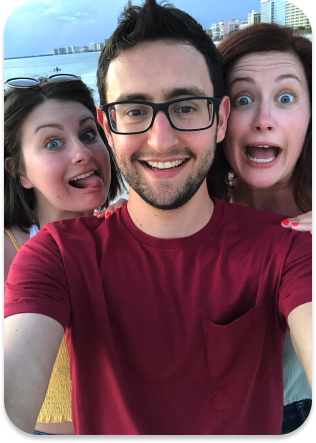
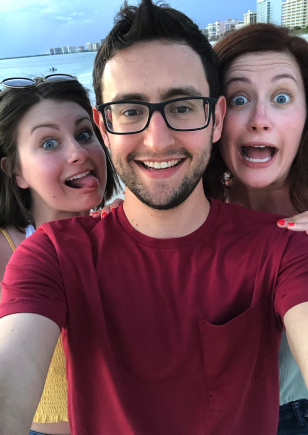
Continued development!

diff --git a/pages/index.vue b/pages/index.vue
@@ -1,38 +1,46 @@
 <template>
-  <div class="flex flex-wrap-reverse items-center max-w-1080 mx-auto 768:py-64 px-16">
-    <div class="w-100% 768:w-66% 768:pr-24">
-      <h1 class="text-36 768:text-48 leading-none pb-8 pt-24 768:pt-0">
-        I'm a <b>pragmatic web developer</b> that wears many hats.
-      </h1>
-      <p class="pb-32">
-        ...metaphorically. I look <span class="uppercase font-700 italic">really</span> bad in hats.
-      </p>
-      <a
-        class="inline-block bg-blue-700 uppercase font-700 text-white py-16 px-32 rounded"
-        href="">Contact Me</a>
-      <a
-        target="_blank"
-        class="ml-12 inline-block bg-gray-200 uppercase font-700 py-16 px-32 rounded"
-        href="/MattWaler.pdf">View my Resume</a>
-      <div class="flex items-center pt-64">
-        <Checked class="w-32 text-green-400 fill-current" />
-        <p class="uppercase text-20 text-gray-600 tracking-wide pl-12">
-          Currently available for freelance & consulting
+  <main>
+    <div class="flex flex-wrap-reverse items-center max-w-1080 mx-auto py-48 768:py-96 px-24">
+      <div class="w-100% 768:w-66% 768:pr-24">
+        <h1 class="text-36 768:text-48 leading-none pb-8 pt-24 768:pt-0">
+          I'm a <b>pragmatic web developer</b> that wears many hats.
+        </h1>
+        <p class="pb-32">
+          ...metaphorically. I look <span class="uppercase font-700 italic">really</span> bad in hats.
         </p>
+        <TheButton
+          link="/contact"
+          text="Contact Me" />
+        <TheButton
+          secondary
+          newtab
+          link="/MattWaler.pdf"
+          classes="ml-24"
+          text="View my Resume" />
+        <div class="flex items-center pt-64">
+          <Checked class="w-32 text-green-400 fill-current" />
+          <p class="uppercase text-20 text-gray-600 tracking-wide pl-12">
+            Currently available for freelance & consulting
+          </p>
+        </div>
+      </div>
+      <div class="w-100% 768:w-33% pl-24">
+        <img
+          class="w-50% mx-auto 768:w-100% rounded-lg shadow-lg"
+          src="~/assets/HannahAndEmily.jpg"
+          alt="My sisters, Hannah and Emily.">
       </div>
     </div>
-    <div class="w-100% 768:w-33% pl-24">
-      <img
-        class="w-50% mx-auto 768:w-100%"
-        src="~/assets/HannahAndEmily.jpg"
-        alt="My sisters, Hannah and Emily.">
-    </div>
-  </div>
+    <Waves class="w-100%" />
+  </main>
 </template>
 
 <script>
+  import TheButton from '~/components/TheButton.vue'
+
   export default {
     name: 'Index',
+    components: { TheButton },
     asyncData: async () => {
       console.log(process.client)
     },

diff --git a/components/TheHeader.vue b/components/TheHeader.vue
@@ -3,7 +3,7 @@
     <div
       role="presentation"
       class="w-100% h-16 bg-blue-700" />
-    <header class="flex justify-between items-center max-w-1080 mx-auto py-48 px-16">
+    <header class="flex justify-between items-center max-w-1080 mx-auto pt-48 px-24">
       <!-- Logo -->
       <a
         href="/"
@@ -17,17 +17,11 @@
       <!-- Nav Items -->
       <nav class="text-20 text-gray-600">
         <a
-          class="px-12"
+          v-for="item in links"
+          :key="item.text"
+          class="ml-48 hover:text-black"
           target="_blank"
-          href="https://github.com/mattwaler">github</a>
-        <a
-          class="px-12"
-          target="_blank"
-          href="https://www.linkedin.com/in/matthewwaler/">linkedin</a>
-        <a
-          class="px-12"
-          target="_blank"
-          href="/MattWaler.pdf">resume</a>
+          :href="item.link">{{ item.text }}</a>
       </nav>
     </header>
   </div>
@@ -36,5 +30,14 @@
 <script>
   export default {
     name: 'Header',
+    data() {
+      return {
+        links: [
+          { text: 'Github', link: 'https://github.com/mattwaler' },
+          { text: 'LinkedIn', link: 'https://www.linkedin.com/in/matthewwaler/' },
+          { text: 'Resume', link: '/MattWaler.pdf' },
+        ],
+      }
+    },
   }
 </script>

diff --git a/components/TheButton.vue b/components/TheButton.vue
@@ -1,0 +1,48 @@
+<template>
+  <nuxt-link
+    class="inline-block uppercase font-700 py-16 px-32 rounded"
+    :target="isNewTab"
+    :class="[setColors, classes]"
+    :to="link">
+    {{ text }}
+  </nuxt-link>
+</template>
+
+<script>
+  export default {
+    name: 'TheButton',
+    props: {
+      classes: {
+        type: String,
+        default: '',
+      },
+      link: {
+        type: String,
+        default: '',
+      },
+      newtab: {
+        type: Boolean,
+        default: false,
+      },
+      secondary: {
+        type: Boolean,
+        default: false,
+      },
+      text: {
+        type: String,
+        default: '',
+      },
+    },
+    computed: {
+      isNewTab() {
+        return this.newtab ? '_blank' : '_self'
+      },
+      setColors() {
+        if (this.secondary) {
+          return 'bg-gray-200'
+        }
+        return 'bg-blue-700 text-white'
+      },
+    },
+  }
+</script>

diff --git a/layouts/default.vue b/layouts/default.vue
@@ -1,9 +1,9 @@
 <template>
-  <div role="presentation">
+  <div
+    role="presentation"
+    class="text-gray-900 font-sans">
     <TheHeader />
-    <nuxt
-      class="text-gray-900 font-sans"
-      role="presentation" />
+    <nuxt role="presentation" />
   </div>
 </template>
 
